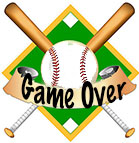
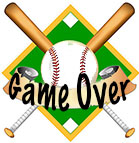
put in options for questions

Changed region(s): [[0.0576, 0.5035, 0.9784, 0.7832]]

diff --git a/scripts/app.js b/scripts/app.js
@@ -1,7 +1,7 @@
 //==============GLOBAL VARIABLES ========================================
 
-// var count = 30;//timer function
-// var counter= setInterval(timer, 1000);
+var count = 45;//timer function
+var counter= setInterval(timer, 1000);
 
 var submitButton = document.getElementById("submitAns");
 var nextButton = document.getElementById("nextQuestion");
@@ -13,17 +13,17 @@ var questionCounter = 0;
 
 var questionsArr = [];
 
-var questionOne = new QuestionMaker("Who is the last player before Javier Baez to homer in a 1-0 postseason game is playing in the ALDS this year, but not for the same team.", "Boston's Mike Napoli", "Bernie Sanders", "Ryne Sandberg", "Michael Johnson")
-var questionTwo = new QuestionMaker("Who led the 2007 Red Sox in wins, with 20?", "Josh Beckett (20-7)", "Option2", "Option3", "Option4")
-var questionThree = new QuestionMaker("Who was the last player to reach 1,000 career hits in a Giants uniform before Buster Posey?","Rich Aurilia (2003)","Option2", "Option3", "Option4");
-var questionFour = new QuestionMaker("Who finished second to Jose Fernandez in 2013 National League Rookie of the Year voting?","Yasiel Puig, Dodgers","Option2", "Option3", "Option4");
-var questionFive = new QuestionMaker("Against what opposing team did Babe Ruth hit his first career home run?", "New York Yankees","Option2", "Option3", "Option4");
-var questionSix = new QuestionMaker("Who was the first Major League player to pitch a ball over 100 mph?", "Nolan Ryan","Option2", "Option3", "Option4");
-var questionSeven = new QuestionMaker("What Baltimore Orioles manager was ejected from a record 91 games?", "Earl Weaver","Option2", "Option3", "Option4");
-var questionEight = new QuestionMaker("What player hit 70 home runs in 1998?", "Mark McGwire","Option2", "Option3", "Option4");
+var questionOne = new QuestionMaker("Who is the last player before Javier Baez to homer in a 1-0 postseason game is playing in the ALDS this year, but not for the same team.", "Mike Napoli", "Bernie Sanders", "Ryne Sandberg", "Michael Johnson")
+var questionTwo = new QuestionMaker("Who led the 2007 Red Sox in wins, with 20?", "Josh Beckett", "James Traver", "Ty Cobb", "James Haff")
+var questionThree = new QuestionMaker("Who was the last player to reach 1,000 career hits in a Giants uniform before Buster Posey?","Rich Aurilia","Jackie Robinson", "Ted Williams", "Lou Gehrig");
+var questionFour = new QuestionMaker("Who finished second to Jose Fernandez in 2013 National League Rookie of the Year voting?","Yasiel Puig, Dodgers","Mickey Mantle", "Yogi Berra", "Pete Rose");
+var questionFive = new QuestionMaker("Against what opposing team did Babe Ruth hit his first career home run?", "New York Yankees","Red Sox", "Chicago Cubs", "St.Louis Cardinals");
+var questionSix = new QuestionMaker("Who was the first Major League player to pitch a ball over 100 mph?", "Nolan Ryan","Ryne Sandberg", "Ty Cobb", "Reggie Jackson");
+var questionSeven = new QuestionMaker("What Baltimore Orioles manager was ejected from a record 91 games?", "Earl Weaver","Jim Travis", "Nolan Ryan", "Barry Bonds");
+var questionEight = new QuestionMaker("What player hit 70 home runs in 1998?", "Mark McGwire","Ryne Sandberg", "Ty Cobb", "Reggie Jackson");
 var questionNine = new QuestionMaker("Who beat out Ted Williams for the American League's Most Valuable Player award in 1941, when Williams hit for a .406 average?",
-    "Joe DiMaggio","Option2", "Option3", "Option4");
-var questionTen = new QuestionMaker("Who hit the ball that rolled between Bill Buckner's legs in the 1986 World Series?", "Mookie Wilson","Option2", "Option3", "Option4");
+    "Joe DiMaggio","Babe Ruth", "Willie Mays", "Hank Aaron");
+var questionTen = new QuestionMaker("Who hit the ball that rolled between Bill Buckner's legs in the 1986 World Series?", "Mookie Wilson","Ryne Sandberg", "Ty Cobb", "Reggie Jackson");
 
 questionsArr.push(questionOne, questionTwo, questionThree, questionFour, questionFive, questionSix, questionSeven, questionEight, questionNine, questionTen); // add all
 
@@ -145,15 +145,15 @@ window.onload = function(event) {
 
     buildAnswerOption(questionOne);
 
-    // function timer(){
-    //     count=count-1;
-    //     if (count < 0)
-    //     {
-    //         clearInterval(counter);
-    //         return;
-    //     }
-    //     document.getElementById("timer").innerHTML = count + " secs";
-    // };
+    function timer(){
+        count=count-1;
+        if (count < 0)
+        {
+            clearInterval(counter);
+            return;
+        }
+        document.getElementById("timer").innerHTML = count + " secs";
+    };
 
 
     submitButton.onclick = function ifCorrect() {
@@ -208,6 +208,24 @@ function runCalc(runs){
     else if(runs === 4){
         return 'images/home-run.jpg'
     }
+    else if(runs === 5){
+        return 'images/first-base.jpg'
+    }
+    else if(runs === 6){
+        return 'images/second-base.jpg'
+    }
+    else if(runs === 7){
+        return 'images/third-base.jpg'
+    }
+    else if(runs === 8){
+        return 'images/home-run.jpg'
+    }
+    else if(runs === 9){
+        return 'images/first-base.jpg'
+    }
+    // else if(runs === 10){
+    //     return 'images/first-base.jpg'
+    // }
     else {
         console.log('nothing hit')
     }
@@ -218,6 +236,15 @@ function checkGameOver(){
         window.location.replace("exit.html");
     }
 }
+
+function checkGameOver(){
+    if(runsCounter === 9){
+        window.location.replace("win.html");
+    }
+}
+
+
+
 
 
 // nextQuestion.onclick = function nextQuestion() {
@@ -242,10 +269,3 @@ nextQuestion.onclick = function nextQuestion() {
 }
 
 
-//
-// //=========JAMES CODE==========
-// function nextQuestion() {
-//     var ques = questionsArr[questionCounter];
-//     // call function to build question
-//     questionCounter = questionCounter + 1;
-// }

diff --git a/css/main.scss b/css/main.scss
@@ -3,12 +3,6 @@ $device-phone: 480px;
 
 #wrapper {
 	width: 480px;
-	//background-color: #a8a572; //inside bases brown
-	//background-color: #047700;//baseball field green
-	//background-color: #8e6628;//GA darker brown
-	//background-color: #987032;//GA brown
-	//background-color: #78bc76;//light green
-	//background-color: white;
 }
 
 .device-phone {
@@ -18,64 +12,32 @@ $device-phone: 480px;
 }
 
 #topTitle {
-	font-family: "Frijole";
-	//font-family: "Adobe Garamond Pro";
+
+	font-family: "Adobe Garamond Pro";
 	color: black;
-	//background-color: #a8a572; //inside bases brown
-	//background-color: #047700;//baseball field green
-	//background-color: #8e6628;//GA darker brown
-	//background-color: #987032;//GA brown
-	//background-color: #78bc76;//light green
-	//background-color: white;
-	//margin: 0 auto;
 	padding: 10px 10px 0px 10px;
 	float: left;
 }
 
 #question {
-	//font-family: "Adobe Garamond Pro";
-	font-family: "Martel+Sans:200";
-	//color: #a8a572; //inside bases brown
-	//color: #047700;//baseball field green
-	//color: #8e6628;//GA darker brown
-	//color: #987032;//GA brown
-	//color: #78bc76;//light green
-	//color: white;
+	font-family: "Adobe Garamond Pro";
 	color: black;
 	font-size: 20px;
 	margin: 0 auto;
 	padding: 10px 10px 10px 10px;
-	//background-color: #a8a572; //inside bases brown
-	//background-color: #047700;//baseball field green
-	//background-color: #8e6628;//GA darker brown
-	//background-color: #987032;//GA brown
-	//background-color: #78bc76;//light green
-	//background-color: white;
-	//float: left;
 }
 
 #scoreboard {
 	font-family: "Adobe Garamond Pro";
-	//color: #a8a572; //inside bases brown
-	//color: #047700;//baseball field green
-	//color: #8e6628;//GA darker brown
-	//color: #987032;//GA brown
-	//color: #78bc76;//light green
-	//color: white;
 	color: black;
-	//background-color: #a8a572; //inside bases brown
-	//background-color: #047700;//baseball field green
-	//background-color: #8e6628;//GA darker brown
-	//background-color: #987032;//GA brown
-	//background-color: #78bc76;//light green
-	//background-color: white;
 	padding: 1px 1px 1px 1px;
-	//float: right;
 	margin: 0 auto;
 }
 
-#radioButtons {
+#radioButtons
+#restartGame {
 	margin: 0 auto;
+
 }
 
 label {
@@ -86,8 +48,7 @@ label {
 #ballField{
 	width: 100%;
 	height: 440px;
-	//background-image: url("/Users/traciwilliams/Sites/Baseball_Game/trivia_baseball_game/images/Team-Lunch3.png");
-	//background-size: cover;
+
 }
 
 #nextQuestion {
@@ -103,32 +64,6 @@ img {
 }
 
 
-//
-//#baseball {
-//	width: 3%;
-//	height: 3%;
-//	background-color: red;
-//	position: absolute;
-	//homebase
-	//top:690px;
-	//right:1020px;
-
-	//firstbase
-	//top: 540px;
-	//right: 880px;
-
-	//secondbase
-	//top:400px;
-	//right:1020px;
-
-	//thirdbase
-	//top:540px;
-	//right:1160px;
-//}
-//
-//#scoreboard {
-//	background-color: white;
-//}
 //====media queries=====
 @media (min-width: $device-phone) {
 	// do stuff to our styles

diff --git a/win.html b/win.html
@@ -16,7 +16,6 @@
   <!-- FONT
   –––––––––––––––––––––––––––––––––––––––––––––––––– -->
   <link href="https://fonts.googleapis.com/css?family=Raleway:400,300,600" rel="stylesheet" type="text/css">
-  <link href="https://fonts.googleapis.com/css?family=Frijole" rel="stylesheet"
 
   <!-- CSS
   –––––––––––––––––––––––––––––––––––––––––––––––––– -->
@@ -36,7 +35,32 @@
   <div id="wrapper">
     <div class="row">
       <div class="twelve column" style="margin-top: 10%">
-        <header id="topTitle"><h1>Trivia Baseball</h1><p></p><a href="index.html"><img src="images/BaseballDiamond.png"/></a></header>
+       <!-- <header id="topTitle"><h1>Trivia Baseball</h1></header>-->
+
+        <section id="question"><img src="images/youwin.jpg"/></section>
+
+
+        <section>
+          <div>
+          <a href="index.html"> <button id="restartGame">Play Again?</button></a>
+          </div>
+        </section>
+
+
+
+        <!--<section id="fourButtons">-->
+            <!--<button>Let's Play!</button>-->
+            <!--<button>Button 2</button>-->
+            <!--<button>Button 3</button>-->
+            <!--<button>Button 4</button>-->
+        <!--</section>-->
+
+        <!--<section id="ballField">-->
+
+        <!--</section>-->
+
+
+
       </div>
     </div>
   </div><!--end of wrapper-->

diff --git a/exit.html b/exit.html
@@ -37,7 +37,7 @@
       <div class="twelve column" style="margin-top: 10%">
        <!-- <header id="topTitle"><h1>Trivia Baseball</h1></header>-->
 
-        <section id="question"><img src="images/gameover.jpg"/></section>
+        <section id="question"><img src="images/gameover_copy.jpg"/></section>
 
 
         <section>

diff --git a/index.html b/index.html
@@ -36,7 +36,7 @@
   <div id="wrapper">
 
       <section>
-        <header id="topTitle"><h4>Question:</h4></header>
+        <header id="topTitle"><h6>Question:</h6></header>
         <section id="questionEl"></section>
       </section>
 
